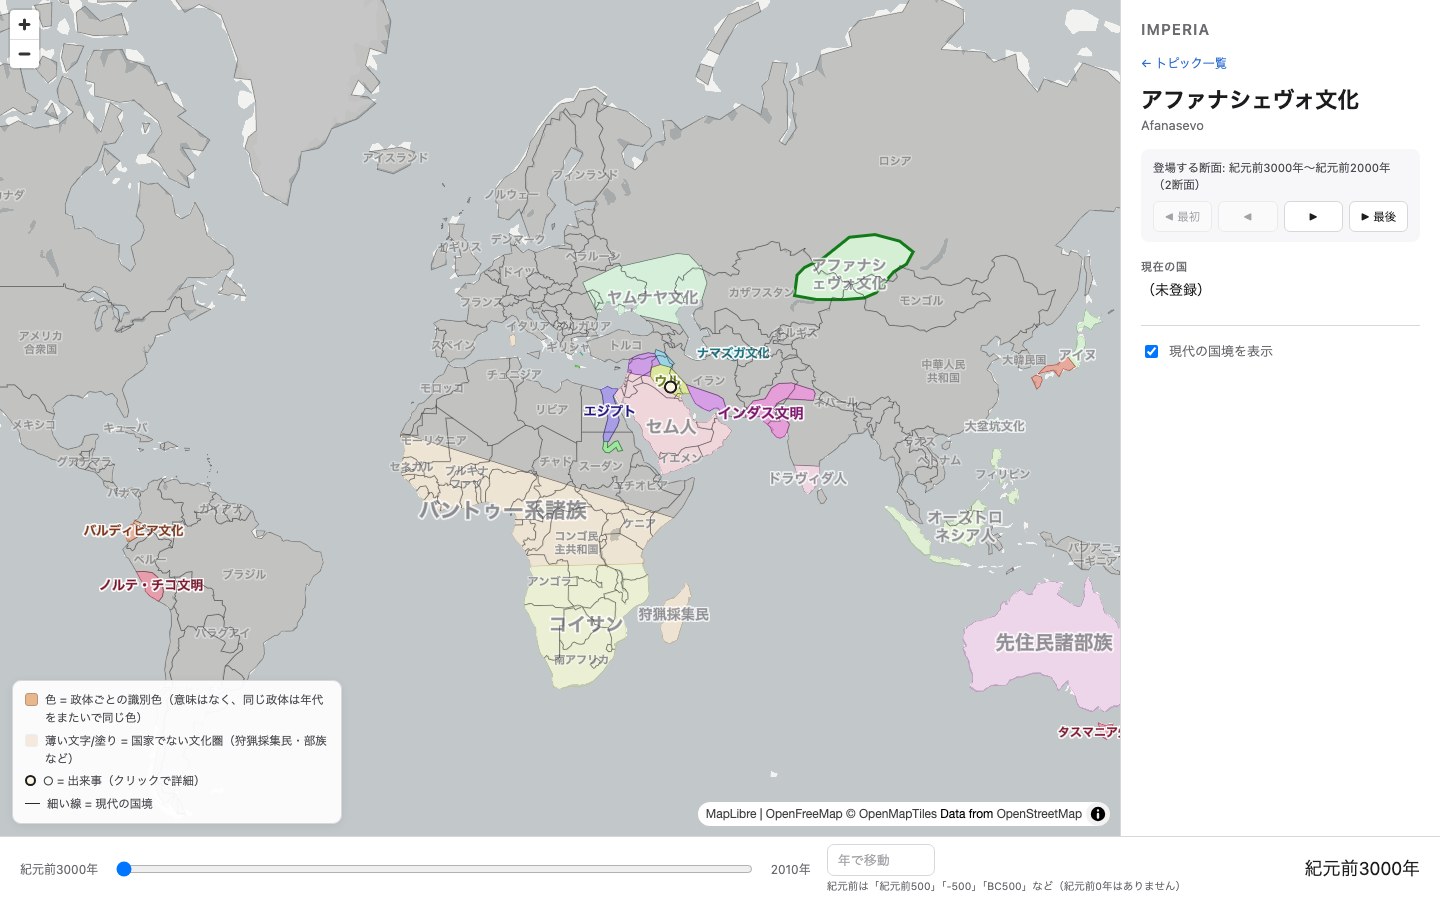
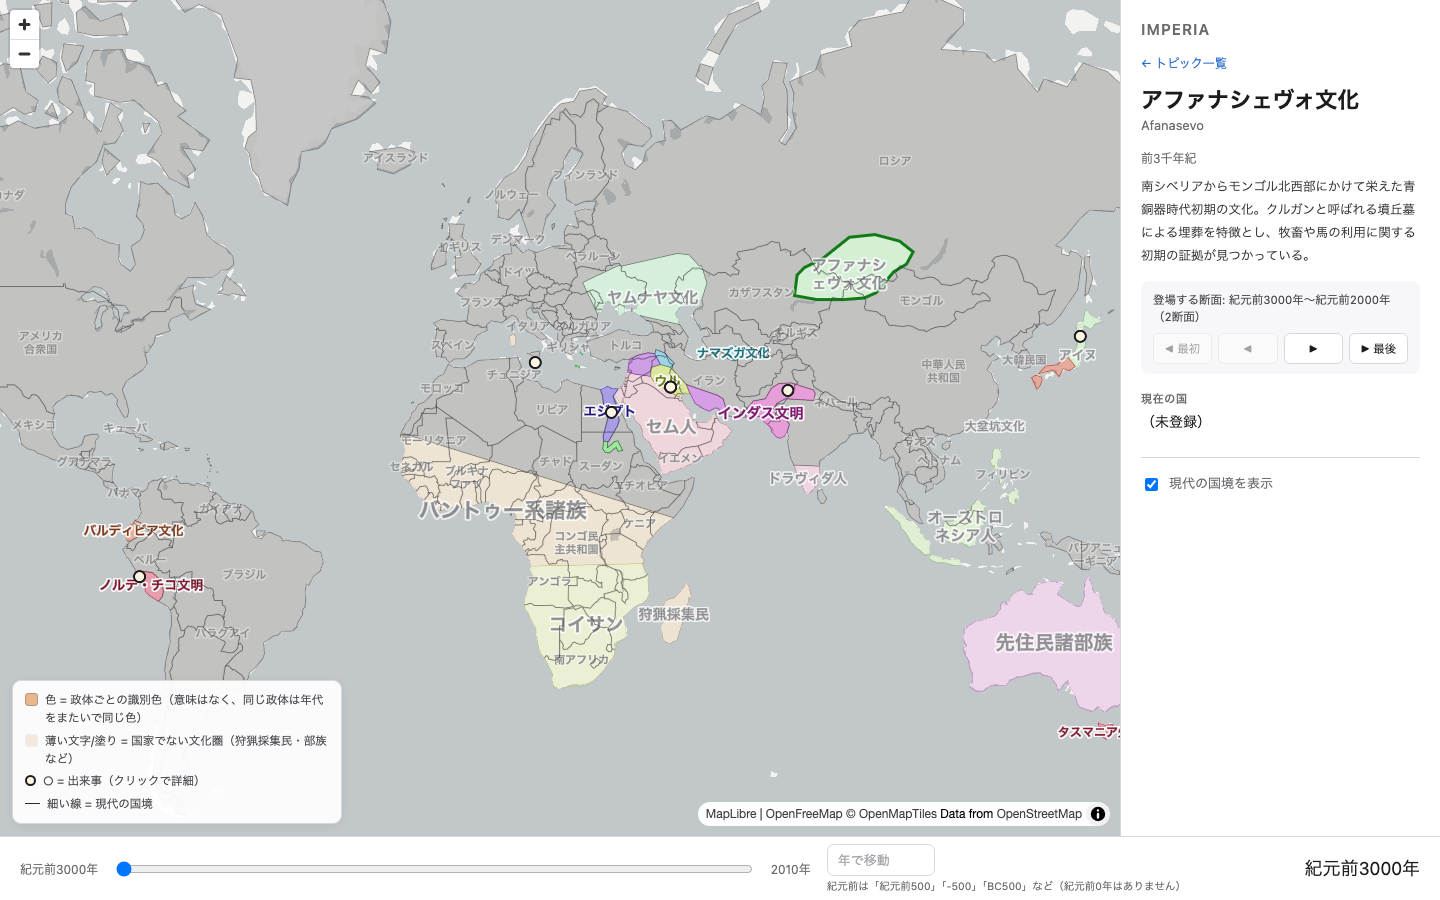
test: validate full coverage and fix a false-positive year check
14 new cases: every map polity described, no entry describing something
absent from the map, summary length and shape, no impossible cited year
(zero, future, absurdly early), summaries staying inside their own stated
period, events sorted and unique with 4-14 per era and none empty, and a
guard that most single-era polities omit a period rather than inventing
one (currently well under half claim one).

The year checks were extracted to test/year-utils.js and taught about
durations, because they fired on correct data: Japanese 「260年」 reads as
both "the year 260" and "260 years". 「約260年にわたる」, 「35年間」,
「約300年ぶりに」, 「10年余りで」 and 「100年以上続く」 were all being read
as years 260, 35, 300, 10 and 100. The parser now skips durations,
approximations and range tails (「1935〜36年」), verified against 12 cases.

Also relaxed two bounds that were correct for the curated 293 but wrong
for the long tail: a summary floor of 60 characters (British East Africa
is a legitimate 39) and a required period_ja. And the -4000 year floor,
which flagged the Chinchorro culture's 前7000年 — those are genuinely the
world's oldest artificial mummies, so the floor was wrong, not the data.

The screenshot script gains a minor-polities target that picks a
mid-sized polity from three different eras and asserts each shows a
history: サバ王国, アルワ王国, ハドラマウト.

Claude-Session: https://claude.ai/code/session_011jmUHQvJfLb2fnRPfpvuRt

diff --git a/test/coverage.test.js b/test/coverage.test.js
@@ -1,0 +1,168 @@
+import test from 'node:test';
+import assert from 'node:assert/strict';
+import { readFileSync } from 'node:fs';
+import { fileURLToPath } from 'node:url';
+import { dirname, join, resolve } from 'node:path';
+
+import { ERA_IDS, ERAS } from '../src/eras.js';
+import { eventsForEra } from '../src/events.js';
+import { citedYears } from './year-utils.js';
+
+const root = resolve(dirname(fileURLToPath(import.meta.url)), '..');
+const readJson = (p) => JSON.parse(readFileSync(join(root, p), 'utf8'));
+const polityInfo = readJson('data/polity-info.json');
+const nameEras = readJson('data/name-eras.json');
+const events = readJson('data/events.json');
+const len = (s) => Array.from(String(s)).length;
+
+// --- polity-info: 全政体を網羅しているか ---
+
+test('every polity in the map data has a description', () => {
+  const names = Object.keys(nameEras);
+  const missing = names.filter((n) => !(n in polityInfo));
+  assert.deepEqual(missing, [], `${missing.length} polities still undescribed`);
+  assert.equal(Object.keys(polityInfo).length, names.length);
+});
+
+test('no polity-info entry describes something absent from the map', () => {
+  const stray = Object.keys(polityInfo).filter((k) => !(k in nameEras));
+  assert.deepEqual(stray, []);
+});
+
+test('every entry has a non-empty summary within the length limit', () => {
+  const allowed = new Set(['summary_ja', 'period_ja', 'capital_ja', 'name_ja']);
+  for (const [k, v] of Object.entries(polityInfo)) {
+    assert.equal(typeof v.summary_ja, 'string', `${k}: summary_ja must be a string`);
+    assert.ok(v.summary_ja.trim(), `${k}: empty summary`);
+    assert.ok(len(v.summary_ja) <= 400, `${k}: summary is ${len(v.summary_ja)} characters`);
+    assert.ok(len(v.summary_ja) >= 25, `${k}: summary is only ${len(v.summary_ja)} characters`);
+    const stray = Object.keys(v).filter((x) => !allowed.has(x));
+    assert.deepEqual(stray, [], `${k}: unexpected fields`);
+    for (const opt of ['period_ja', 'capital_ja', 'name_ja']) {
+      if (v[opt] !== undefined) {
+        assert.ok(typeof v[opt] === 'string' && v[opt].trim(), `${k}: bad ${opt}`);
+      }
+    }
+  }
+});
+
+test('summaries are Japanese, not English', () => {
+  for (const [k, v] of Object.entries(polityInfo)) {
+    const english = v.summary_ja.match(/[A-Za-z]*[a-z]{3,}[A-Za-z]*/);
+    assert.equal(english, null, `${k}: English in summary: ${english?.[0]}`);
+  }
+});
+
+// --- polity-info: 年の健全性 ---
+
+test('no cited year is impossible', () => {
+  const bad = [];
+  for (const [k, v] of Object.entries(polityInfo)) {
+    for (const field of ['summary_ja', 'period_ja']) {
+      if (!v[field]) continue;
+      for (const y of citedYears(v[field])) {
+        // 0年は存在しない。この地図が扱うのは前4000年〜現在まで
+        if (y === 0) bad.push(`${k}.${field}: year 0`);
+        if (y > 2026) bad.push(`${k}.${field}: future year ${y}`);
+        // 地図は前3000年から始まるが、記述はそれ以前の文化にも触れる
+        // （チンチョーロ文化の人工ミイラは前7000年ごろ）
+        if (y < -12000) bad.push(`${k}.${field}: implausibly early ${y}`);
+      }
+    }
+  }
+  assert.deepEqual(bad, []);
+});
+
+test('a summary does not cite a year outside its own stated period', () => {
+  // period_ja が「前202年〜220年」のように両端を持つ場合だけ検査する。
+  // 前後200年の余裕を見る（前史・後日談に触れるのは自然なため）。
+  const bad = [];
+  for (const [k, v] of Object.entries(polityInfo)) {
+    if (!v.period_ja) continue;
+    const bounds = citedYears(v.period_ja);
+    if (bounds.length < 2) continue;
+    const lo = Math.min(...bounds) - 200;
+    const hi = Math.max(...bounds) + 200;
+    for (const y of citedYears(v.summary_ja)) {
+      if (y < lo || y > hi) bad.push(`${k}: period ${v.period_ja} but summary cites ${y}`);
+    }
+  }
+  assert.deepEqual(bad, []);
+});
+
+test('a described polity appears in at least one era', () => {
+  for (const k of Object.keys(polityInfo)) {
+    assert.ok(nameEras[k]?.length > 0, `${k}: described but never on the map`);
+  }
+});
+
+test('most obscure polities correctly omit a period rather than inventing one', () => {
+  // 登場断面が1つしかない無名の政体に、軒並み具体的な年代が付いていたら
+  // 捏造を疑うべき。ここでは「省略が多数派であること」を確かめる。
+  const obscure = Object.keys(polityInfo).filter((k) => nameEras[k].length === 1);
+  const withPeriod = obscure.filter((k) => polityInfo[k].period_ja).length;
+  assert.ok(
+    withPeriod / obscure.length < 0.5,
+    `${withPeriod}/${obscure.length} single-era polities claim a period — suspicious`,
+  );
+});
+
+// --- events ---
+
+test('events.json has grown to roughly 300 and stays well formed', () => {
+  assert.ok(events.length >= 300, `only ${events.length} events`);
+  const seen = new Set();
+  events.forEach((e, i) => {
+    const at = `event ${i} (${e.title_ja})`;
+    assert.ok(Number.isInteger(e.year) && e.year !== 0, `${at}: bad year ${e.year}`);
+    assert.ok(e.lat >= -90 && e.lat <= 90, `${at}: bad lat`);
+    assert.ok(e.lng >= -180 && e.lng <= 180, `${at}: bad lng`);
+    assert.ok(len(e.title_ja) > 0 && len(e.title_ja) <= 20, `${at}: title length`);
+    assert.ok(len(e.summary_ja) > 0 && len(e.summary_ja) <= 80, `${at}: summary length`);
+    assert.match(e.source_url, /^https:\/\/ja\.wikipedia\.org\/wiki\/.+/, `${at}: source_url`);
+    assert.deepEqual(
+      Object.keys(e).sort(),
+      ['lat', 'lng', 'source_url', 'summary_ja', 'title_ja', 'year'],
+      `${at}: unexpected fields`,
+    );
+    const key = `${e.title_ja}|${e.year}`;
+    assert.ok(!seen.has(key), `${at}: duplicate of an earlier event`);
+    seen.add(key);
+  });
+});
+
+test('events are sorted by year', () => {
+  for (let i = 1; i < events.length; i += 1) {
+    assert.ok(events[i - 1].year <= events[i].year, `event ${i} out of order`);
+  }
+});
+
+test('no era is left without events', () => {
+  const empty = ERA_IDS.filter((_, i) => eventsForEra(i, events).length === 0);
+  assert.deepEqual(empty, [], 'every era must show at least one event');
+});
+
+test('every era has a workable number of events', () => {
+  const counts = ERA_IDS.map((id, i) => ({ id, n: eventsForEra(i, events).length }));
+  for (const { id, n } of counts) {
+    assert.ok(n >= 4, `era ${id} has only ${n} events`);
+    assert.ok(n <= 14, `era ${id} has ${n} events — too many dots for one map`);
+  }
+});
+
+test('events do not cite a year in the text far from their own year', () => {
+  const bad = [];
+  for (const e of events) {
+    for (const y of citedYears(`${e.title_ja} ${e.summary_ja}`)) {
+      if (Math.abs(y - e.year) > 60) bad.push(`${e.title_ja} (${e.year}) cites ${y}`);
+    }
+  }
+  assert.deepEqual(bad, []);
+});
+
+test('events span the whole timeline, not just the modern end', () => {
+  const ancient = events.filter((e) => e.year < 0).length;
+  assert.ok(ancient >= 60, `only ${ancient} BC events`);
+  const modern = events.filter((e) => e.year >= 1900).length;
+  assert.ok(modern < events.length * 0.4, 'events are too concentrated in the modern era');
+});

diff --git a/test/overviews-polity.test.js b/test/overviews-polity.test.js
@@ -6,6 +6,7 @@ import { dirname, join, resolve } from 'node:path';
 
 import { ERA_IDS, ERAS, formatYear, indexOfEra } from '../src/eras.js';
 import { buildEraJumpModel, buildPanelModel, renderTopics } from '../src/panel.js';
+import { citedYears } from './year-utils.js';
 
 const root = resolve(dirname(fileURLToPath(import.meta.url)), '..');
 const readJson = (p) => JSON.parse(readFileSync(join(root, p), 'utf8'));
@@ -52,9 +53,7 @@ test('an overview does not cite a year far outside its era', () => {
   const offenders = [];
   for (const id of ERA_IDS) {
     const t = overviews[id];
-    // 「紀元前3000年」は 前+3000。数字の途中から拾わないよう直前が数字でないことを要求する
-    const years = [...t.matchAll(/(?<![0-9])(前)?([0-9]{1,4})年/g)]
-      .map((m) => (m[1] ? -Number(m[2]) : Number(m[2])));
+    const years = citedYears(t);
     for (const y of years) {
       if (Math.abs(y - yearOf[id]) > 60) offenders.push(`${id}(${yearOf[id]}) cites ${y}`);
     }
@@ -71,16 +70,20 @@ test('polity-info covers a useful number of polities and only real ones', () => 
   assert.deepEqual(unknown, [], 'every described polity must exist somewhere in the era data');
 });
 
-test('every polity entry has a summary and a period', () => {
+test('every polity entry has a summary; a period is optional', () => {
   const allowed = new Set(['summary_ja', 'period_ja', 'capital_ja', 'name_ja']);
   for (const [k, v] of Object.entries(polityInfo)) {
     assert.equal(typeof v.summary_ja, 'string', `${k}: summary_ja`);
-    assert.ok(len(v.summary_ja) >= 40 && len(v.summary_ja) <= 220, `${k}: summary is ${len(v.summary_ja)} chars`);
-    assert.equal(typeof v.period_ja, 'string', `${k}: period_ja`);
-    assert.ok(v.period_ja.trim(), `${k}: empty period`);
+    // 長さの厳密な検査は coverage.test.js 側に集約した（長い尾は短い記述が正しい）
+    assert.ok(len(v.summary_ja) >= 25, `${k}: summary is only ${len(v.summary_ja)} chars`);
+    // period_ja は任意。無名の政体では「年代を捏造しない」ことの方が大事なので、
+    // 省略が正しい振る舞いになる（長い尾の大半は省略されている）。
+    if (v.period_ja !== undefined) {
+      assert.ok(typeof v.period_ja === 'string' && v.period_ja.trim(), `${k}: bad period_ja`);
+    }
     const stray = Object.keys(v).filter((x) => !allowed.has(x));
     assert.deepEqual(stray, [], `${k}: unexpected fields`);
-    for (const opt of ['capital_ja', 'name_ja']) {
+    for (const opt of ['period_ja', 'capital_ja', 'name_ja']) {
       if (v[opt] !== undefined) assert.ok(typeof v[opt] === 'string' && v[opt].trim(), `${k}: ${opt}`);
     }
   }

diff --git a/test/year-utils.js b/test/year-utils.js
@@ -1,0 +1,44 @@
+// 日本語の文から「年」を拾う。テスト間で規則を1か所に保つためのヘルパー。
+//
+// 日本語では「260年」が西暦260年とも「260年間」とも読める。年代の取り違えを
+// 検査したいので、期間を表している数字は年として拾ってはいけない。
+// 実データで踏んだ誤検出:
+//   「約260年にわたる」「35年間」「約300年ぶりに」「10年余りで」「100年以上続く」
+//   「1935〜36年」「1920〜30年代」  ← 範囲の後半だけを拾ってしまう
+
+/** 数字の直後（「年」の後ろ）に来ると期間を表す語。 */
+const DURATION_SUFFIXES = [
+  '間', 'ぶり', '余', '以上', '以下', '以降', '以内', '足らず',
+  'にわたり', 'にわたる', 'にわたっ', 'をかけ', 'を経',
+  '続', '後', '前後', 'ほど', 'ばかり', 'あまり',
+];
+
+/** 数字の直前に来ると概数＝期間を示唆する語。 */
+const APPROX_PREFIXES = ['約', 'およそ', '数'];
+
+/** 数字の直前に来ると「範囲の後半」を示す記号（1935〜36年 の 36）。 */
+const RANGE_MARKS = ['〜', '～', '-', '–', '—', '‐'];
+
+/**
+ * 文中で「時点としての年」を指している数字だけを返す。
+ * 「紀元前3000年」は -3000。数字の途中から拾わないよう直前が数字でないことを要求する。
+ *
+ * @param {string} text
+ * @returns {number[]}
+ */
+export function citedYears(text) {
+  const s = String(text ?? '');
+  const out = [];
+  for (const m of s.matchAll(/(?<![0-9])(前)?([0-9]{1,4})年/g)) {
+    const start = m.index;
+    const after = s.slice(start + m[0].length);
+    const before = s.slice(0, start);
+
+    if (DURATION_SUFFIXES.some((suffix) => after.startsWith(suffix))) continue;
+    if (APPROX_PREFIXES.some((p) => before.endsWith(p))) continue;
+    if (RANGE_MARKS.some((r) => before.endsWith(r))) continue;
+
+    out.push(m[1] ? -Number(m[2]) : Number(m[2]));
+  }
+  return out;
+}

diff --git a/test/topics.test.js b/test/topics.test.js
@@ -6,6 +6,7 @@ import { dirname, join, resolve } from 'node:path';
 
 import { ERA_IDS, ERAS, formatYear } from '../src/eras.js';
 import { renderTopics } from '../src/panel.js';
+import { citedYears } from './year-utils.js';
 
 const root = resolve(dirname(fileURLToPath(import.meta.url)), '..');
 const readJson = (p) => JSON.parse(readFileSync(join(root, p), 'utf8'));
@@ -92,9 +93,7 @@ test('topic bodies do not mention a year far from their era', () => {
   for (const [id, list] of Object.entries(topics)) {
     for (const t of list) {
       const text = `${t.title_ja} ${t.body_ja}`;
-      // 「紀元前3000年」は 前+3000。数字の途中から拾わないよう直前が数字でないことを要求する
-      const years = [...text.matchAll(/(?<![0-9])(前)?([0-9]{1,4})年/g)]
-        .map((m) => (m[1] ? -Number(m[2]) : Number(m[2])));
+      const years = citedYears(text);
       for (const y of years) {
         if (Math.abs(y - yearOf[id]) > 60) offenders.push(`${id}(${yearOf[id]}): ${y} in "${t.title_ja}"`);
       }

diff --git a/app.js b/app.js
@@ -554,6 +554,8 @@ window.imperia = {
   get nonStateRule() { return nonStateRule; },
   focusPolity,
   showTopics,
+  eraIndexOf: indexOfEra,
+  currentEraId: () => (shownIndex >= 0 ? eraAt(shownIndex).id : null),
   get topics() { return allTopics; },
   get shownIndex() { return shownIndex; },
   get selectedId() { return selectedId; },

diff --git a/README.md b/README.md
@@ -117,9 +117,18 @@ OpenMapTiles の地物は `name:ja` を持っているので、これで「Deuts
 
 ## 政体の来歴
 
-`data/polity-info.json` に主要293政体の `{summary_ja, period_ja, capital_ja?, name_ja?}`。
-政体の詳細パネルで、名前と「現在の国」のあいだに出る。未登録の政体では
-この欄が丸ごと省かれるだけで、従来どおりの表示になる。
+`data/polity-info.json` に **全2548政体** の `{summary_ja, period_ja?, capital_ja?, name_ja?}`。
+政体の詳細パネルで、名前と「現在の国」のあいだに出る。
+
+記述は二段構え。主要293件は「起こり→最盛期→衰亡」を3〜4文で追う。残り2255件は
+1〜3文で「それが何で、いつ栄え、どうなったか」に絞る。狩猟採集民や考古学的文化には
+王朝の弧を当てはめず、社会の性格・分布・知られている特徴を書く。現存する民族を
+「滅亡した」と書かない。
+
+**`period_ja` は任意で、実際に2548件中1633件では省いている。** 無名の集団に
+それらしい年代を付けるのは捏造であり、曖昧なまま置く方が正しいため。
+「確かな一般論 > 怪しい具体」を規則にしてある（`scripts/`外の作成指示は
+scratchpad に置いたが、方針は本節が正）。
 
 `name_ja` は `names.ja.json` の訳を上書きする。断面の年代と矛盾する訳を直すための
 逃げ道で、例えば `Manchu Empire`（1650〜1914年の断面に登場）は「後金」（1616〜1636年の
@@ -206,10 +215,10 @@ data/modern-borders.geojson   Natural Earth 110m 国境線
 data/names.ja.json            NAME → 日本語名（全2548件）
 data/modern.json              NAME → 現在の国（面積上位216件）
 data/nonstate.json            非国家判定の規則
-data/events.json              主要な出来事110件
+data/events.json              主要な出来事387件
 data/topics.json              断面ごとのトピック（48断面 × 4〜7件）
 data/overviews.json           断面ごとの概説（48断面 × 200〜300字）
-data/polity-info.json         政体の来歴（293件）
+data/polity-info.json         政体の来歴（全2548件）
 data/name-eras.json           NAME → 登場する断面（生成物）
 src/nonstate.js               非国家判定
 src/labelpoint.js             政体名ラベルの代表点計算

diff --git a/docs/superpowers/specs/2026-08-23-imperia-design.md b/docs/superpowers/specs/2026-08-23-imperia-design.md
@@ -47,8 +47,10 @@
 - どの勢力が伸び/傾き、地域どうしがどうつながっていたかを地域横断で書く
 
 ### 政体の来歴 `data/polity-info.json`
-- 主要政体の `{summary_ja (起こり→最盛期→衰亡), period_ja, capital_ja?, name_ja?}`
-- 政体パネルの名前と「現在の国」のあいだに出す。未登録なら欄ごと省く
+- **全2548政体** の `{summary_ja, period_ja?, capital_ja?, name_ja?}`
+- 主要293件は3〜4文（起こり→最盛期→衰亡）、残りは1〜3文
+- `period_ja` は任意。年代を確証できない政体では**省くのが正しい**（捏造しない）
+- 政体パネルの名前と「現在の国」のあいだに出す
 
 ### 登場する断面 `data/name-eras.json`
 - `scripts/build-name-eras.mjs` が生成。NAME → 登場する断面 ID の配列
@@ -63,7 +65,8 @@
 - 何も選んでいない間の右パネルの既定表示
 
 ### 出来事 `data/events.json`
-- 自前キュレーション。戦い・条約・建国・滅亡など主要100件から
+- 自前キュレーション。戦い・条約・建国・滅亡など387件
+- 全48断面に4件以上。1件も無い断面を作らない
 - 形式: `{year, lat, lng, title_ja, summary_ja, source_url}`
 - 表示: 選択断面の前後（直前の断面より後〜当該断面まで）の出来事を点で表示
 
